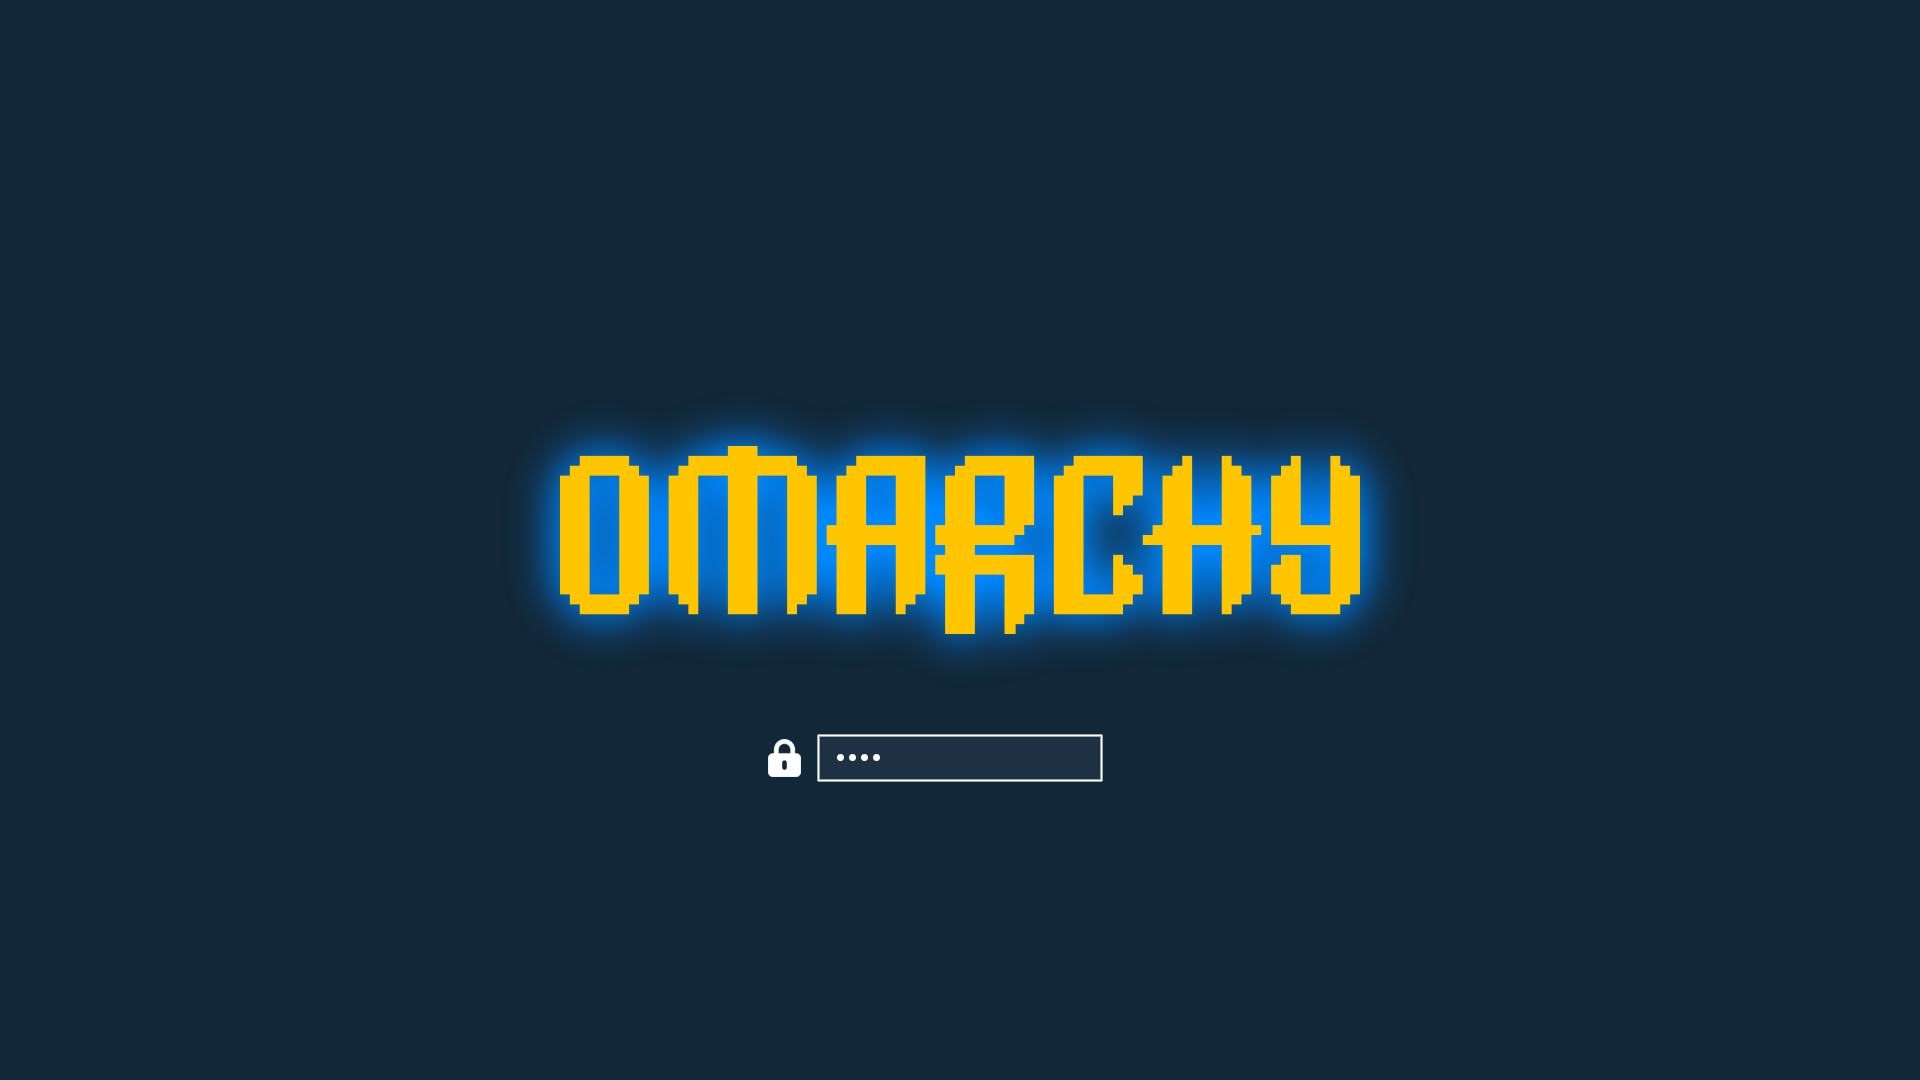
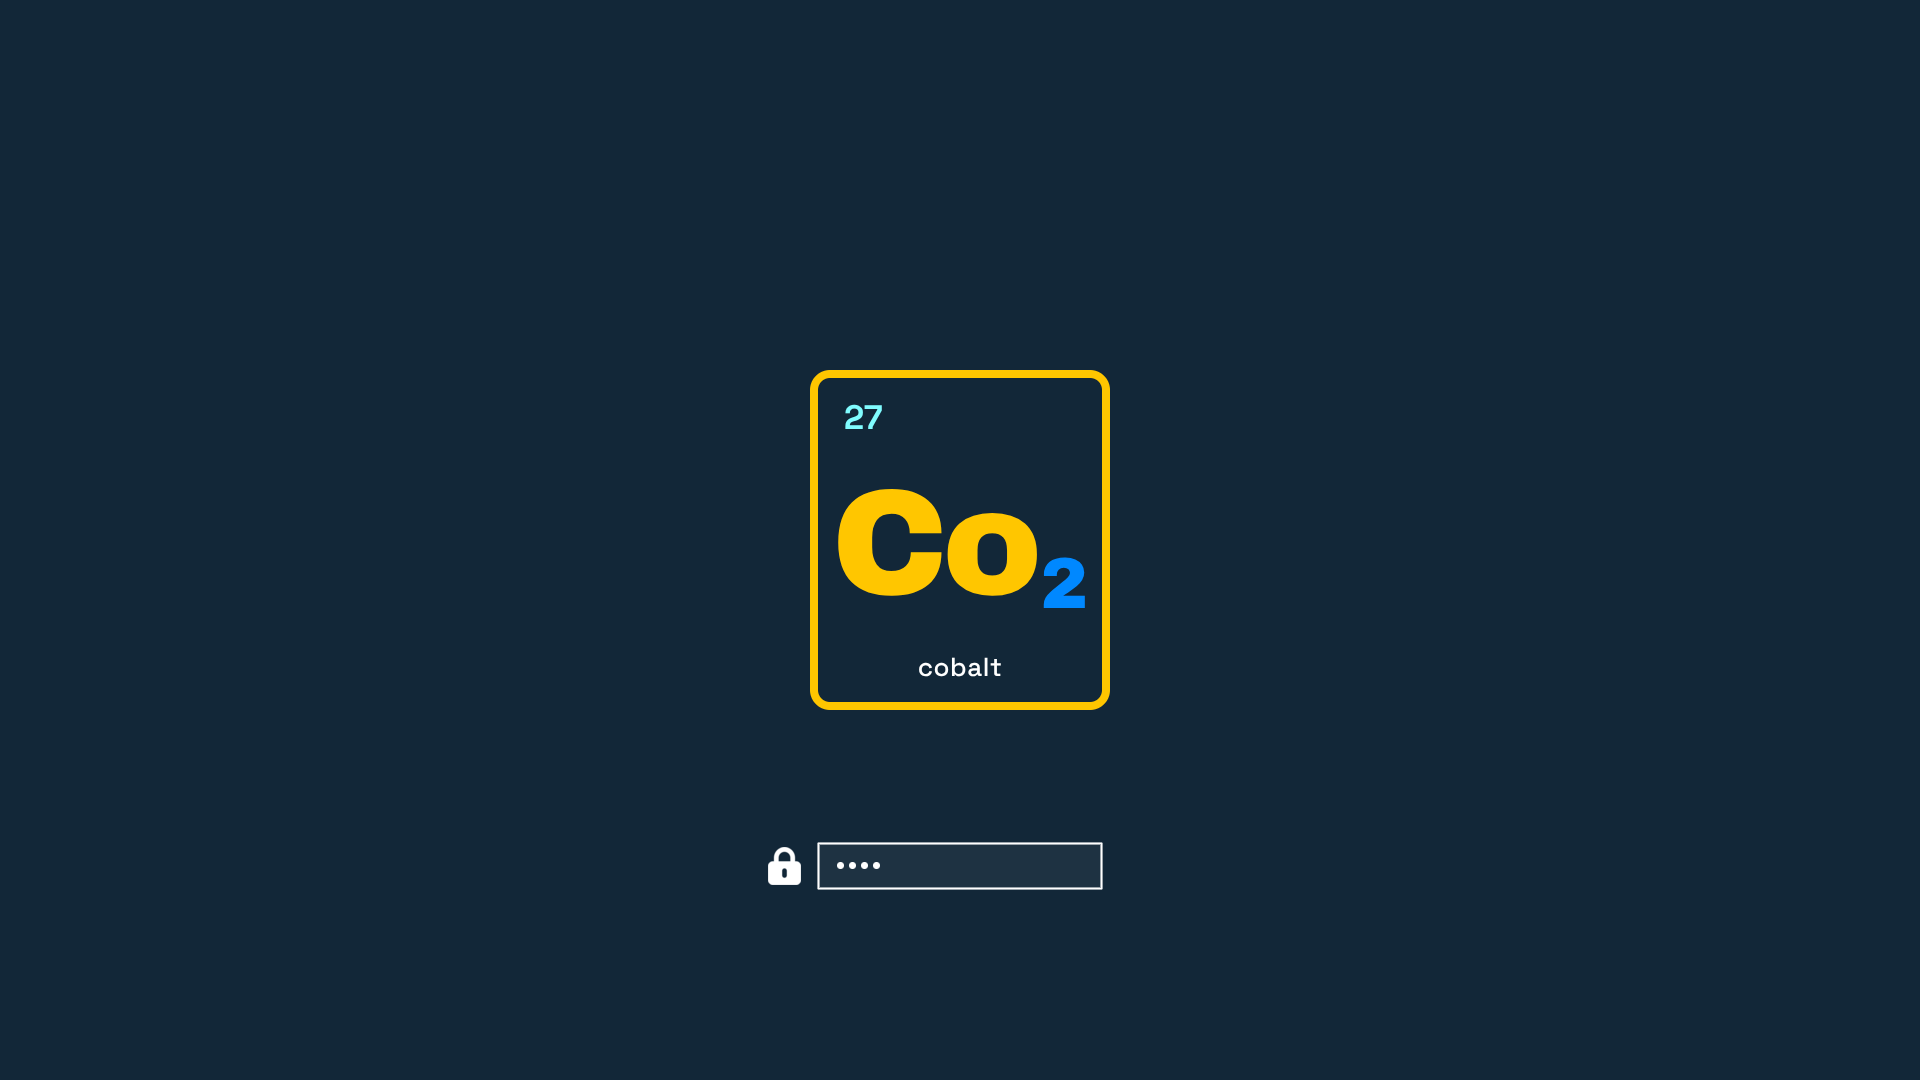
Replace the boot mark with cobalt's periodic-table tile
The first unlock art tinted Omarchy's own wordmark, which is the wrong
identity for a theme named after Wes Bos's Cobalt2. The tile reads Co
with a subscript 2 under atomic number 27, rendered from the design
canvas with Archivo Black and Space Grotesk.

[claude-fable-5-1] on behalf of hoblin

Changed region(s): [[0.25, 0.3361, 0.75, 0.7333], [0.375, 0.7639, 0.4688, 0.825]]

diff --git a/README.md b/README.md
@@ -39,7 +39,7 @@ Once installed, pick "Cobalt2" under _Style > Theme_ and everything refreshes au
 - **Obsidian** (`obsidian.css`) — note-taking app styling.
 - **Chromium** (`chromium.theme`) — deep blue browser frame.
 - **Icons** (`icons.theme`) — Yaru-yellow icon set.
-- **Boot screen** (`unlock.png`) — Plymouth unlock art in Cobalt2 colours, applied from _Style > Unlock_.
+- **Boot screen** (`unlock.png`) — Plymouth unlock art: cobalt's periodic-table tile, element 27, reading Co₂. Applied from _Style > Unlock_.
 - **Backgrounds** — curated wallpapers that complement the Cobalt2 aesthetic.
 
 The repository also carries hand-written **Alacritty**, **Ghostty**, **Kitty**, **Neovim** and **VS Code** files. They keep the golden cursor, and for Neovim and VS Code they select the real Cobalt2 colorschemes ([cobalt2.nvim](https://github.com/lalitmee/cobalt2.nvim) and [Wes Bos's extension](https://github.com/wesbos/cobalt2-vscode)).
